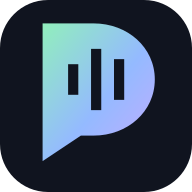
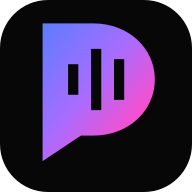
Restore original colorful neon theme

Changed region(s): [[0.2188, 0.0938, 0.8125, 0.8438]]

diff --git a/src/app/globals.css b/src/app/globals.css
@@ -3,28 +3,29 @@
 @tailwind utilities;
 
 :root {
-  --ink-rgb: 16 20 31;
-  --paper-rgb: 247 244 236;
-  --acid-rgb: 245 212 119;
-  --mint-rgb: 145 239 188;
-  --hot-rgb: 255 155 145;
-  --electric-rgb: 148 186 255;
-  --violet-rgb: 197 171 255;
-  --surface-rgb: 24 32 49;
-  --ink: #10141f;
-  --ink-soft: #182031;
-  --surface-raised: #202a3d;
-  --paper: #f7f4ec;
-  --acid: #f5d477;
-  --acid-hover: #ffe39a;
-  --mint: #91efbc;
-  --mint-hover: #b0f7d0;
-  --hot: #ff9b91;
-  --electric: #94baff;
-  --violet: #c5abff;
-  --orange: #ffbb7c;
-  --line: rgb(181 190 208 / 0.19);
-  --muted: #b5bed0;
+  --ink-rgb: 7 7 7;
+  --paper-rgb: 245 242 232;
+  --acid-rgb: 255 220 102;
+  /* Compatibility token for Switch accents introduced by the studio theme. */
+  --mint-rgb: 255 220 102;
+  --hot-rgb: 255 76 200;
+  --electric-rgb: 93 124 255;
+  --violet-rgb: 169 108 255;
+  --surface-rgb: 14 14 16;
+  --ink: #070707;
+  --ink-soft: #0e0e10;
+  --surface-raised: #1a1920;
+  --paper: #f5f2e8;
+  --acid: #ffdc66;
+  --acid-hover: #ffe58c;
+  --mint: var(--acid);
+  --mint-hover: var(--acid-hover);
+  --hot: #ff4cc8;
+  --electric: #5d7cff;
+  --violet: #a96cff;
+  --orange: #ff7a2f;
+  --line: rgb(245 242 232 / 0.13);
+  --muted: #aaa7b3;
   --radius-sm: 12px;
   --radius-md: 20px;
   --radius-lg: 28px;
@@ -42,8 +43,8 @@ body {
   min-height: 100vh;
   margin: 0;
   background:
-    radial-gradient(ellipse at 4% 0%, rgb(var(--mint-rgb) / .08), transparent 40rem),
-    radial-gradient(ellipse at 100% 15%, rgb(var(--violet-rgb) / .09), transparent 38rem),
+    radial-gradient(circle at 10% 0%, rgb(var(--electric-rgb) / .13), transparent 30rem),
+    radial-gradient(circle at 90% 12%, rgb(var(--hot-rgb) / .10), transparent 28rem),
     var(--ink);
   color: var(--paper);
   font-family: "DM Sans", "Segoe UI", Arial, sans-serif;
@@ -134,7 +135,7 @@ a {
     border-color 180ms ease;
 }
 .button-primary {
-  box-shadow: 0 5px 18px rgb(var(--mint-rgb) / .12), inset 0 1px 0 rgb(255 255 255 / .3);
+  box-shadow: 0 8px 34px rgb(var(--acid-rgb) / .2);
   background: var(--mint);
   border: 1px solid var(--mint);
   color: var(--ink);
@@ -147,7 +148,7 @@ a {
 }
 .button-secondary {
   background: rgb(var(--surface-rgb) / .65);
-  border: 1px solid rgb(181 190 208 / .26);
+  border: 1px solid rgb(var(--electric-rgb) / .28);
   color: var(--paper);
 }
 .button-secondary:hover:not(:disabled) {
@@ -516,7 +517,7 @@ audio {
 }
 .text-gradient {
   color: var(--paper);
-  background: linear-gradient(110deg, var(--mint) 10%, var(--electric) 90%);
+  background: linear-gradient(110deg, #fff 5%, #aabaff 30%, var(--violet) 55%, var(--hot) 85%);
   background-clip: text;
   -webkit-background-clip: text;
   -webkit-text-fill-color: transparent;
@@ -689,8 +690,7 @@ html[data-reduced-motion="true"] *::after {
   outline-color: var(--ink);
 }
 .cue-sheet { border-top: 4px solid var(--acid); }
-.hero-direction { background: #dae7ff; }
-.direction-cue { background: #f4deb0; }
+.hero-direction, .direction-cue { background: #dbe3ff; }
 .segmented-control button { transition: background-color 180ms ease, color 180ms ease, box-shadow 180ms ease; }
 input:not([type="checkbox"]):not([type="radio"]):not([type="range"]), textarea, select {
   accent-color: var(--acid);
@@ -724,10 +724,10 @@ input[type="checkbox"], input[type="radio"], input[type="range"] { accent-color:
   .brand-link:hover .brand-mark { transform: rotate(-8deg) translateY(-1px); }
 }
 
-/* Shared navy surfaces keep the cue colors distinct. */
+/* Original neon depth with the current compact layouts and controls. */
 .panel {
-  background: linear-gradient(145deg, var(--surface-raised), var(--ink-soft));
-  box-shadow: inset 0 1px 0 rgb(255 255 255 / .035), 0 12px 32px rgb(0 0 0 / .08);
+  background: linear-gradient(145deg, rgb(255 255 255 / .07), rgb(255 255 255 / .025));
+  box-shadow: inset 0 1px 0 rgb(255 255 255 / .07);
 }
 .panel-solid, .recording-desk {
   box-shadow: inset 0 1px 0 rgb(255 255 255 / .035);

diff --git a/src/lib/visual-theme.ts b/src/lib/visual-theme.ts
@@ -1,15 +1,15 @@
-/** Shared palette for the app, canvas cards and finished video overlays. */
+/** Shared colors for canvas, video, and social images that cannot read CSS tokens. */
 export const VISUAL_THEME = {
-  ink: "#10141f",
-  surface: "#182031",
-  paper: "#f7f4ec",
-  accent: "#91efbc",
-  yellow: "#f5d477",
-  pink: "#ff9b91",
-  blue: "#94baff",
-  violet: "#c5abff",
-  orange: "#ffbb7c",
-  muted: "#b5bed0",
-  border: "#39465e",
-  paperMuted: "#4d586e",
+  ink: "#070707",
+  surface: "#0e0e10",
+  paper: "#f5f2e8",
+  accent: "#ffdc66",
+  yellow: "#ffdc66",
+  pink: "#ff4cc8",
+  blue: "#5d7cff",
+  violet: "#a96cff",
+  orange: "#ff7a2f",
+  muted: "#aaa7b3",
+  border: "#393642",
+  paperMuted: "#534d61",
 };

diff --git a/src/lib/brand.ts b/src/lib/brand.ts
@@ -4,9 +4,10 @@ import { VISUAL_THEME } from "./visual-theme";
 export const BRAND_MARK_PATH = "M12 8H32C45.3 8 56 17.4 56 30S45.3 52 32 52H27L12 62V8ZM22 24V36H26V24H22ZM31 18V42H35V18H31ZM40 22V38H44V22H40Z";
 
 export const BRAND_GRADIENT_STOPS = [
-  [0, VISUAL_THEME.accent],
-  [0.55, VISUAL_THEME.blue],
-  [1, VISUAL_THEME.violet],
+  [0, VISUAL_THEME.blue],
+  [0.45, VISUAL_THEME.violet],
+  [0.8, VISUAL_THEME.pink],
+  [1, VISUAL_THEME.orange],
 ] as const;
 
 /** SVG exports share the same spectrum as the in-app mark and canvas cards. */

diff --git a/src/components/landing/hero-demo.tsx b/src/components/landing/hero-demo.tsx
@@ -26,7 +26,7 @@ export function HeroDemo() {
         <h1 className="display-type home-headline">
           Same phrase.
           <br />
-          <span className="text-mint">Different energy.</span>
+          <span className="text-gradient">Different energy.</span>
         </h1>
         <p className="mt-3 max-w-md text-base leading-7 text-white/75 sm:mt-5 sm:text-lg">
           Say it again. Change the emotion or speed. See how far you can take it.

diff --git a/src/lib/video-composition.ts b/src/lib/video-composition.ts
@@ -5,7 +5,7 @@ import type { SwitchChallenge } from "./switch/types";
 import type { SayClip } from "./say-it-back/types";
 import emojiImages from "./video-emoji.json";
 
-export const VIDEO_LAYOUT_VERSION = "delivery-vertical-v7-studio" as const;
+export const VIDEO_LAYOUT_VERSION = "delivery-vertical-v8-neon" as const;
 export const COMPOSITION_WIDTH = 1080;
 export const COMPOSITION_HEIGHT = 1920;
 export const AUDIO_LEVEL_FPS = 15;

diff --git a/src/app/layout.tsx b/src/app/layout.tsx
@@ -63,7 +63,7 @@ export const metadata: Metadata = {
 };
 
 export const viewport: Viewport = {
-  themeColor: "#10141f",
+  themeColor: "#070707",
   colorScheme: "dark",
   width: "device-width",
   initialScale: 1,

diff --git a/docs/VIDEO_EXPORTS_HANDOFF.md b/docs/VIDEO_EXPORTS_HANDOFF.md
@@ -1,3 +1,13 @@
+# Original neon palette restored — September 8, 2026
+
+Restores the palette and spectrum logo from `1bd5a03`: near-black surfaces, yellow actions, hot pink, electric blue, violet and orange. Shared CSS, canvas/video colors, social branding, PWA icons and browser theme color agree. Switch retains the current primary placement, layout, navigation and gameplay. The compatibility `mint` tokens now resolve to the original yellow action color. Typography and compact recording layouts remain unchanged.
+
+New exports use `delivery-vertical-v8-neon` so the existing exact-version check distinguishes the restored palette from studio-theme files. Earlier clips stay downloadable and no existing videos are regenerated automatically. No geometry, audio, camera defaults, storage or database changes.
+
+Verification: production build, scoped ESLint and 21 existing composition/export UI checks passed. The cloud browser cannot open this workspace's localhost; visual release verification uses the hosted application.
+
+---
+
 # Switch-first product polish — September 8, 2026
 
 Switch is the primary arrival and play experience. The shared theme now uses navy surfaces, mint for Switch, warm yellow for Classic and blue for Say It Back, with coral and violet supporting cues and states. The clip editor uses shorter, camera-neutral copy and clearer Preview, Finished video and Create video actions.
